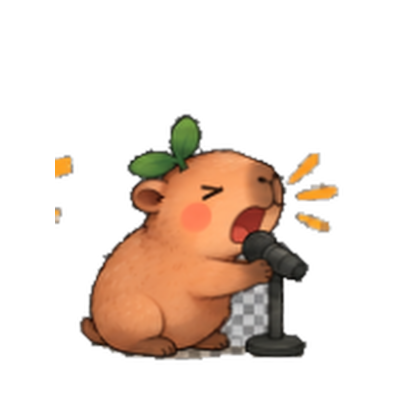
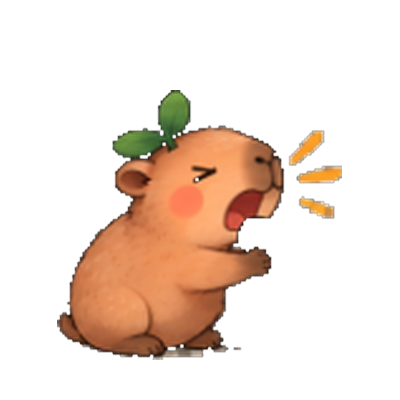
fix: clean isolation of Cappy from shout frames with pure transparency and dynamic audio-synchronized 3-frame idle loop

Changed region(s): [[0.12, 0.21, 0.87, 0.9], [0.12, 0.39, 0.18, 0.45], [0.12, 0.51, 0.18, 0.57]]

diff --git a/components/capy-sprite.tsx b/components/capy-sprite.tsx
@@ -185,31 +185,37 @@ export default function CapySprite({
   }, [pose]);
 
   const isSoundPlayingRef = useRef(false);
+  const soundDurationRef = useRef(3000);
+  const soundStartTimeRef = useRef(0);
 
-  // When pose is "shout", track whether sound is playing to hold on frame 6 (index 5)
+  // When pose is "shout", track whether sound is playing and synchronize dynamic animation
   useEffect(() => {
     if (pose !== "shout") return;
 
     isSoundPlayingRef.current = true;
+    soundStartTimeRef.current = Date.now();
+    soundDurationRef.current = 3000;
 
-    // Safety fallback: if sound is muted or blocked, hold for 2.8s then release
     let fallbackTimer = setTimeout(() => {
       isSoundPlayingRef.current = false;
-    }, 2800);
+    }, 15000);
 
     const handleSoundStarted = (e: Event) => {
       isSoundPlayingRef.current = true;
+      soundStartTimeRef.current = Date.now();
       clearTimeout(fallbackTimer);
       const ce = e as CustomEvent<{ durationMs?: number }>;
       const dur = ce.detail?.durationMs;
       if (dur && dur > 0) {
+        soundDurationRef.current = dur;
         fallbackTimer = setTimeout(() => {
           isSoundPlayingRef.current = false;
-        }, dur + 250);
+        }, dur + 100);
       } else {
+        soundDurationRef.current = 3000;
         fallbackTimer = setTimeout(() => {
           isSoundPlayingRef.current = false;
-        }, 15000);
+        }, 3500);
       }
     };
 
@@ -247,14 +253,53 @@ export default function CapySprite({
       if (onFrameRef.current) onFrameRef.current(0);
     }, 0);
 
+    // Dynamic audio synchronization for long audio animations (e.g. shout)
+    if (pose === "shout") {
+      const startTime = Date.now();
+      const tickRate = 45; // Smooth ~22-30fps updates
+
+      const interval = setInterval(() => {
+        const elapsed = Date.now() - startTime;
+        const totalDuration = soundDurationRef.current || 3000;
+        // Final portion: 5 frames (indices 3..7) taking approximately 1.2s - 1.8s
+        const finalDuration = Math.min(1800, Math.max(800, totalDuration * 0.4));
+        const loopUntil = Math.max(0, totalDuration - finalDuration);
+
+        if (elapsed < loopUntil && isSoundPlayingRef.current) {
+          // A. 3-frame subtle idle loop: Frame 1 -> 2 -> 3 -> 2 -> 1...
+          const idleFrames = [0, 1, 2, 1];
+          const idleStep = Math.floor(elapsed / 140) % idleFrames.length;
+          const frame = idleFrames[idleStep];
+          setFrameIdx(frame);
+          if (onFrameRef.current) onFrameRef.current(frame);
+        } else {
+          // B. Final audio-sync portion: play remaining frames sequentially to the climax
+          const finalFrames = [3, 4, 5, 6, 7];
+          const finalElapsed = elapsed - loopUntil;
+          const finalStep = Math.min(
+            finalFrames.length - 1,
+            Math.floor((finalElapsed / finalDuration) * finalFrames.length),
+          );
+          const frame = finalFrames[finalStep];
+          setFrameIdx(frame);
+          if (onFrameRef.current) onFrameRef.current(frame);
+
+          // Synchronize ending: finish exactly when audio ends or time expires
+          if (!isSoundPlayingRef.current || elapsed >= totalDuration) {
+            clearInterval(interval);
+            setFrameIdx(7);
+            if (onFrameRef.current) onFrameRef.current(7);
+            if (onAnimationCompleteRef.current) onAnimationCompleteRef.current();
+          }
+        }
+      }, tickRate);
+
+      return () => clearInterval(interval);
+    }
+
+    // Standard sequence loop for other animations
     const interval = setInterval(() => {
       setFrameIdx((current) => {
-        // If shouting, hold on frame 6 (index 5: shout-6.png) for however long the sound is!
-        if (pose === "shout" && current === 5 && isSoundPlayingRef.current) {
-          if (onFrameRef.current) onFrameRef.current(5);
-          return 5;
-        }
-
         const next = current + 1;
         if (next >= config.frames.length) {
           if (config.loop) {
